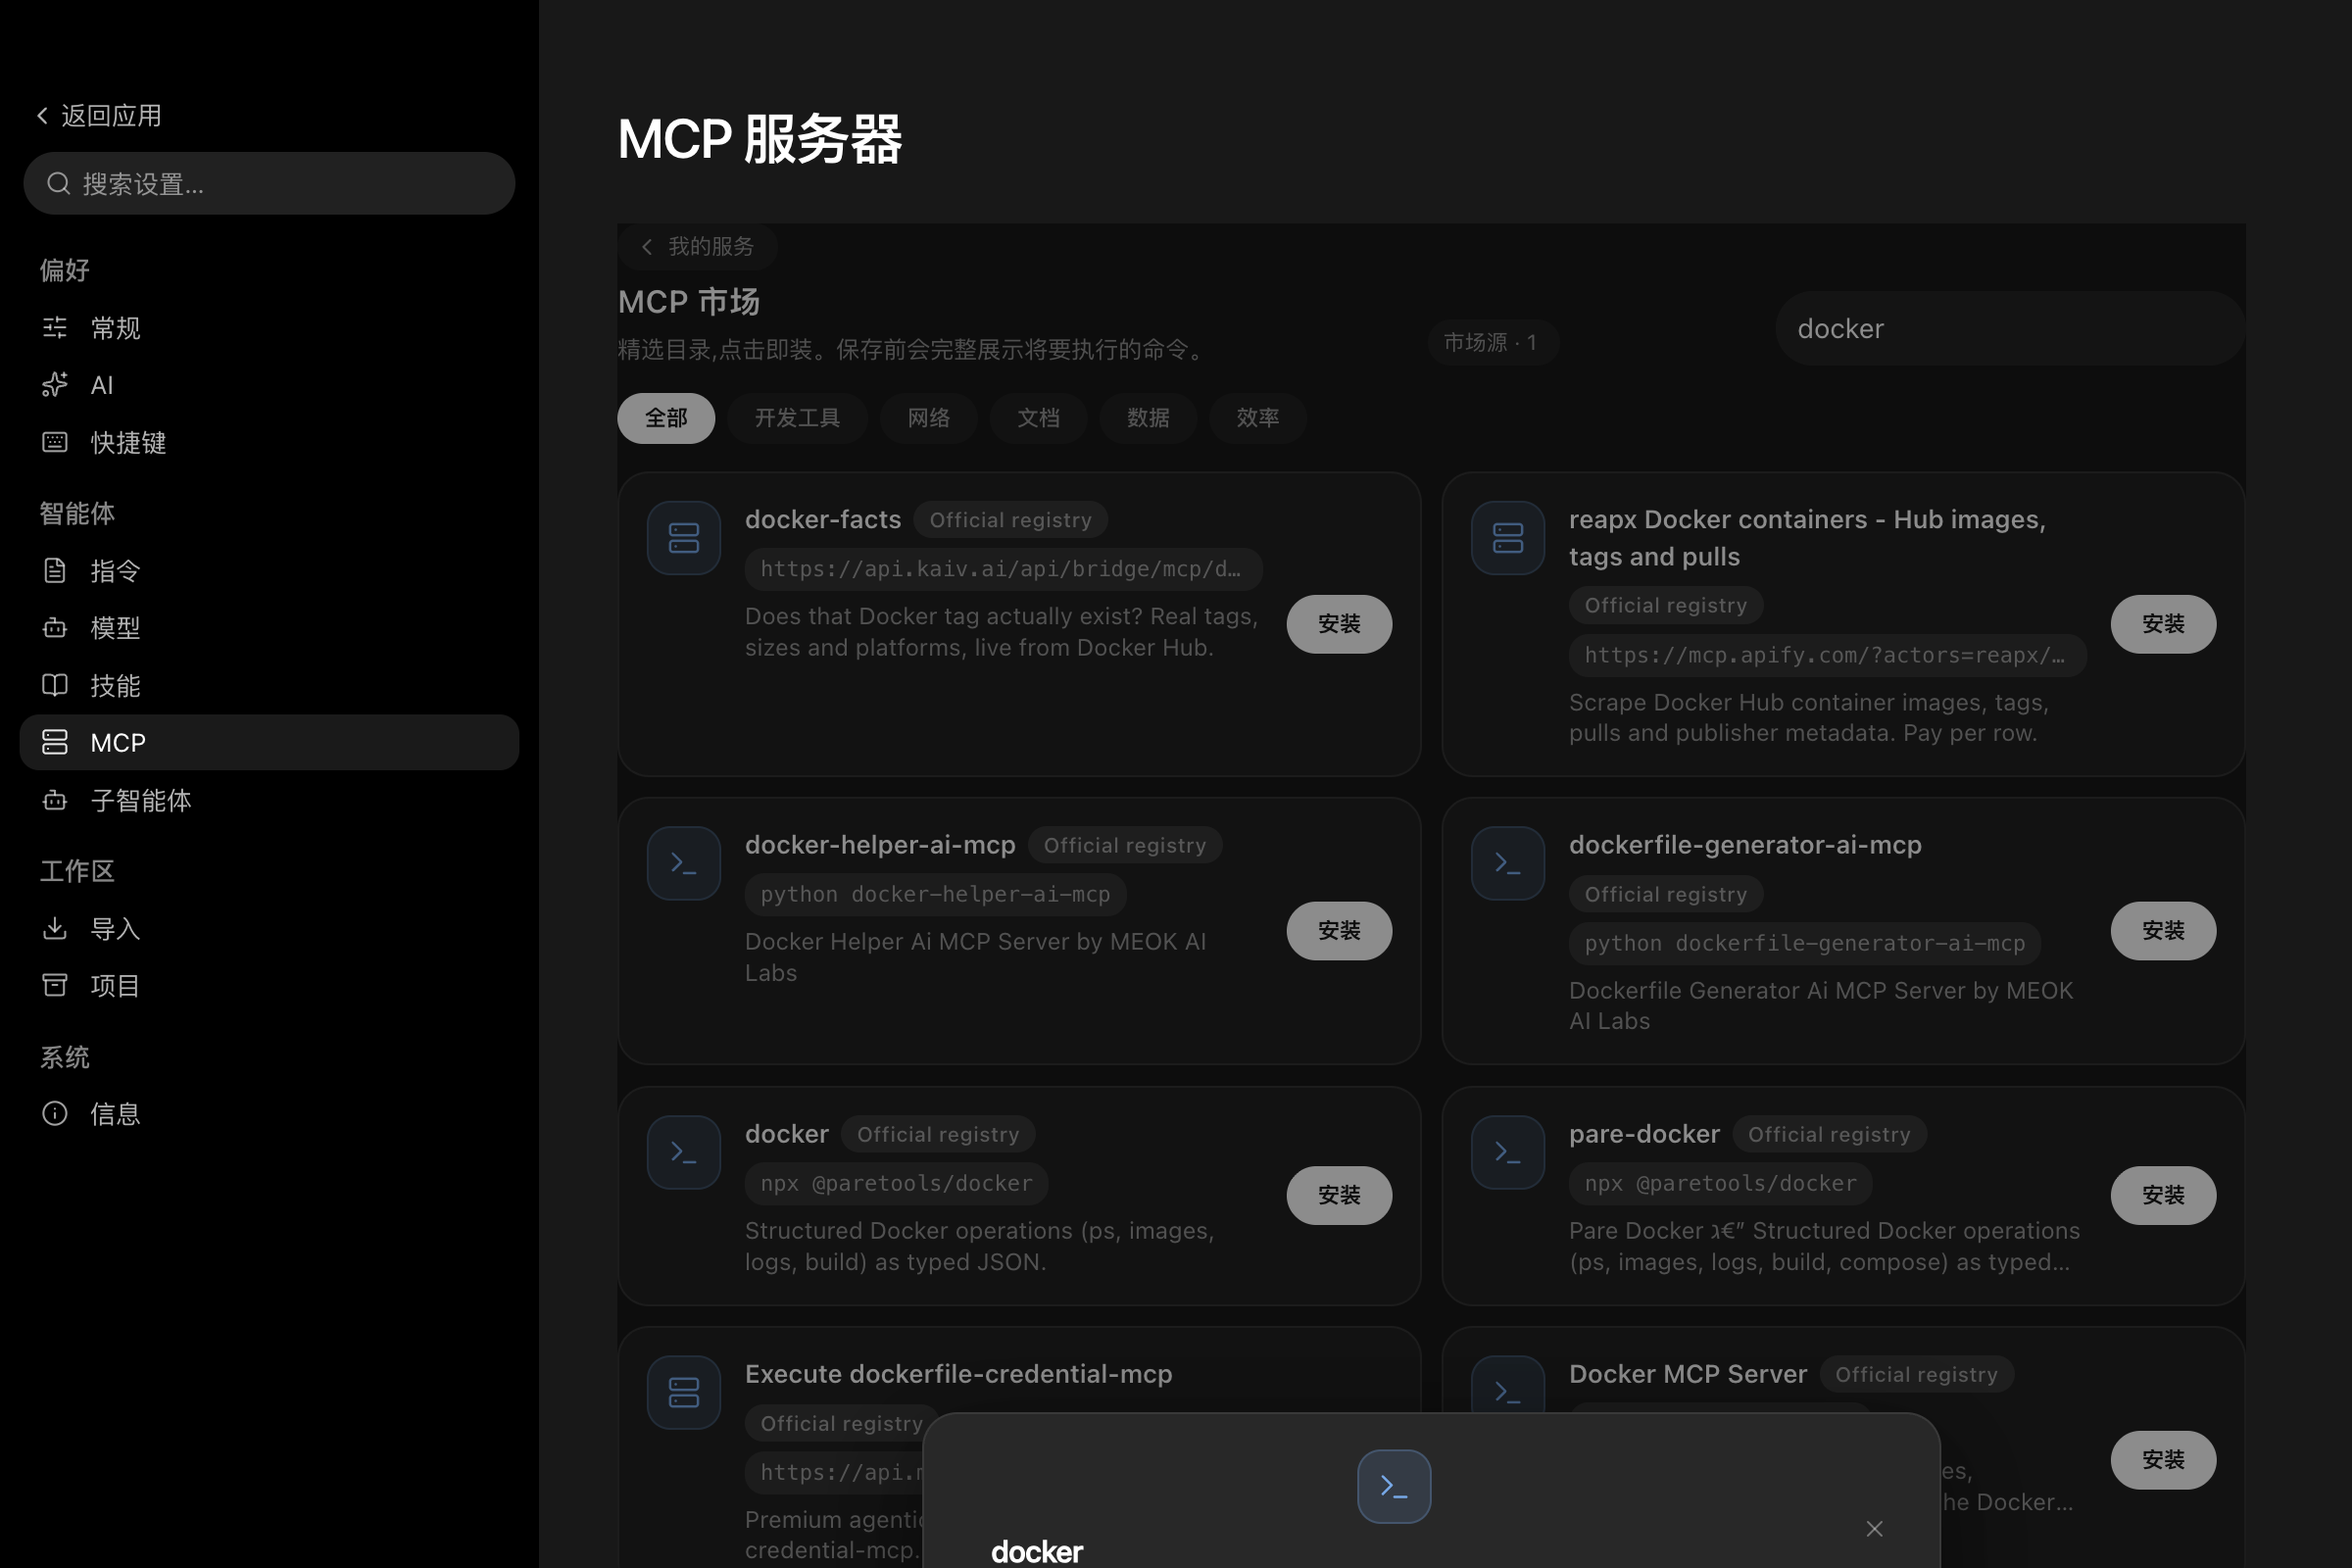
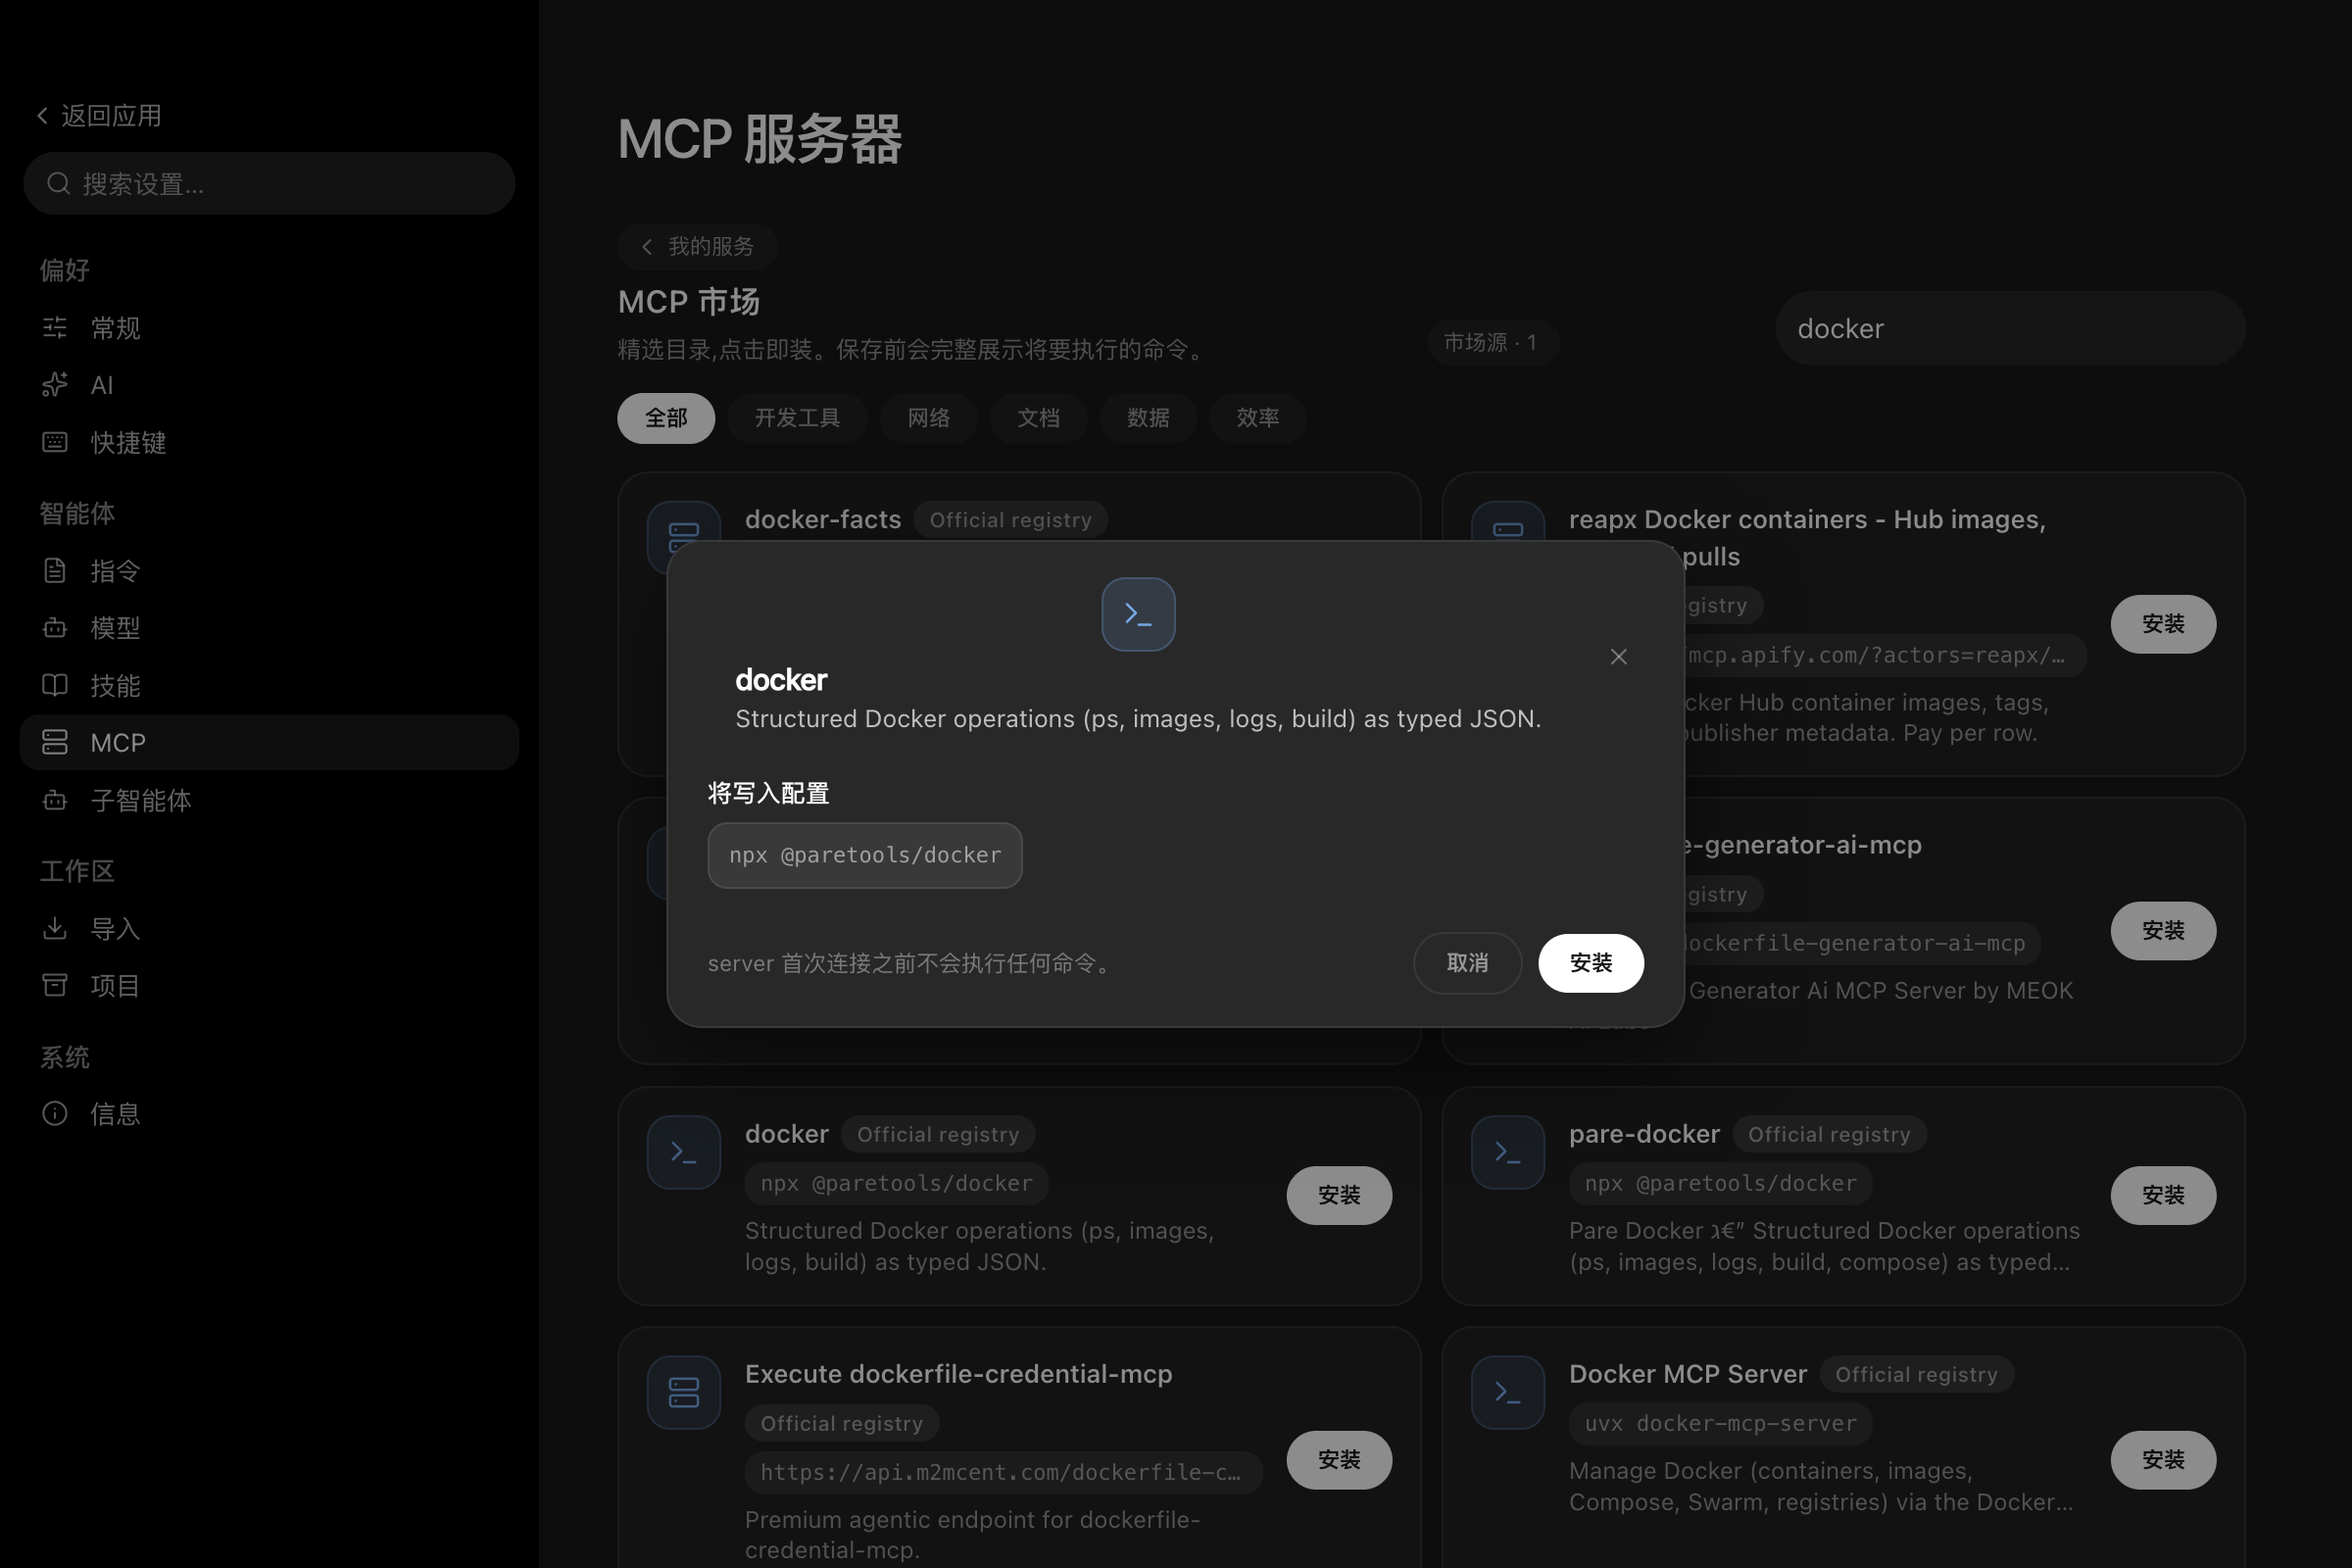
fix(desktop): portal market sheets to body so they center in the window
The settings shell and the market root both carry transforms, which
turn the overlay's position:fixed into shell-relative positioning —
the sheet rendered near the bottom of the scroll content instead of
the viewport. Portal the install and sources sheets to document.body
and refresh the PR screenshots taken with the fix in place.

diff --git a/apps/desktop/src/components/settings/McpMarketPanel.tsx b/apps/desktop/src/components/settings/McpMarketPanel.tsx
@@ -1,4 +1,5 @@
 import { useEffect, useMemo, useState, type CSSProperties } from "react";
+import { createPortal } from "react-dom";
 import { useTranslation } from "react-i18next";
 import {
   BUILTIN_MCP_CATALOG,
@@ -563,8 +564,11 @@ export function McpMarketPanel({
         )}
       </div>
 
-      {installSheet}
-      {sourcesSheet}
+      {/* The settings shell carries a transform, which would turn the
+          overlay's `position: fixed` into shell-relative positioning — portal
+          both sheets to <body> so they always cover the window. */}
+      {installSheet && createPortal(installSheet, document.body)}
+      {sourcesSheet && createPortal(sourcesSheet, document.body)}
     </div>
   );
 }
